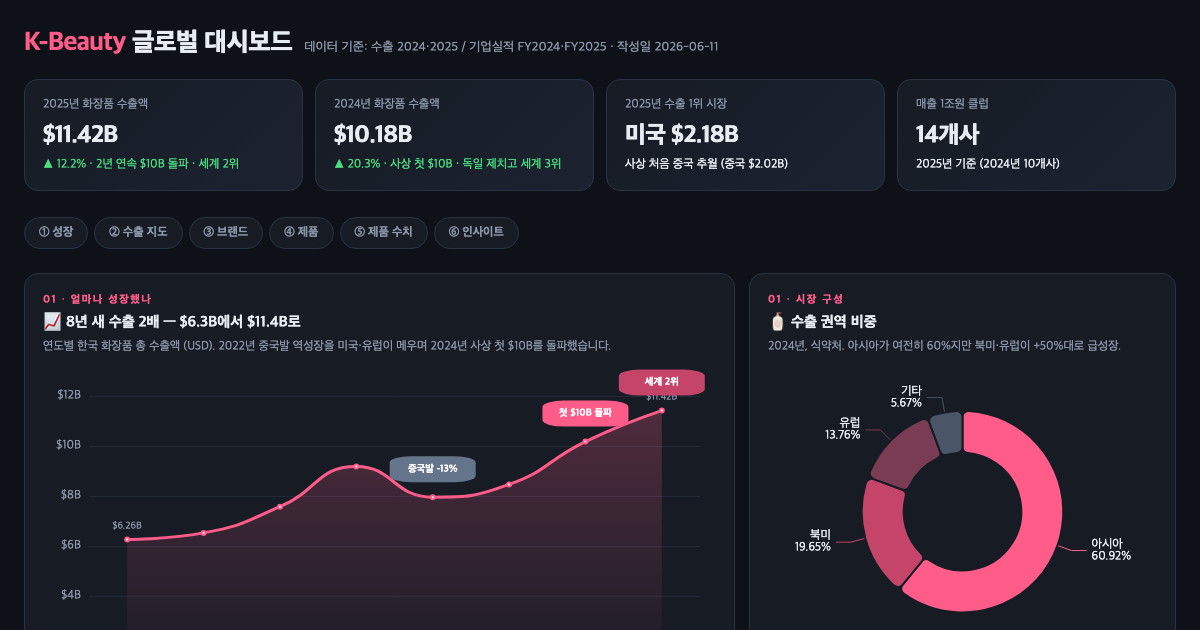
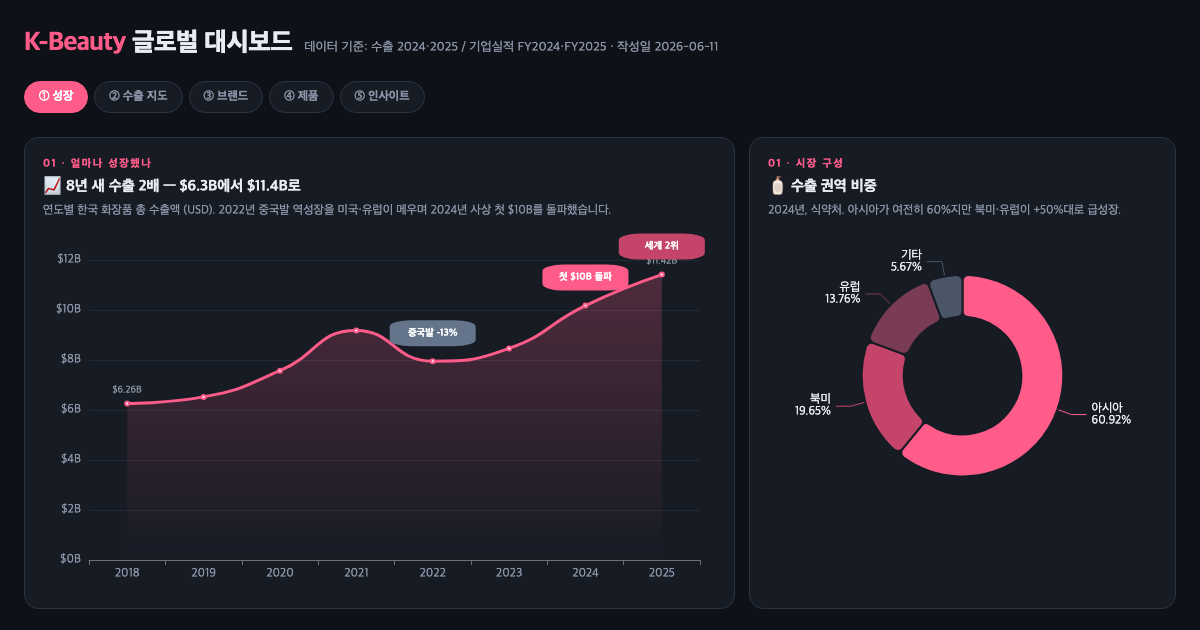
⑤ 제거 + ④를 플랫폼 실측 랭킹으로 재구성
문제: 누적 판매량은 브랜드별 발표 시점이 제각각, '종합 순위'는 편집
판단이라 정확성 한계 → 검증 불가능한 수치 비교를 제거하고 플랫폼이
직접 집계·공표하는 실측 랭킹으로 대체.

- ⑤ 제품별 판매·매출 차트 섹션 삭제 (관련 JS·URL 상태 포함)
- ④ 상단: 올리브영 글로벌 베스트셀러 TOP 20 (order-best API, 일일
  판매 기반, 평점·리뷰·가격 포함) + Qoo10 재팬 월간 공식 랭킹
  (eBay Japan PR Times, 판매개수 기준, 2026-04분 4개 카테고리)
- ④ 하단: '제품 도감 30' — 편집 순위 폐기, 기본 정렬 Amazon 리뷰순
  (공개 지표만 사용), 순번은 현재 정렬 기준 위치
- validate.js에 platformRanks 검증 추가, 섹션 ⑤→인사이트 재번호
- og.png 갱신, 캐시버스트 v=11

diff --git a/index.html b/index.html
@@ -326,8 +326,7 @@
     <a href="#sec-map">② 수출 지도</a>
     <a href="#sec-brands">③ 브랜드</a>
     <a href="#sec-products">④ 제품</a>
-    <a href="#sec-chart">⑤ 제품 수치</a>
-    <a href="#sec-insights">⑥ 인사이트</a>
+    <a href="#sec-insights">⑤ 인사이트</a>
   </nav>
 
   <div class="grid row-growth" id="sec-growth">
@@ -379,12 +378,25 @@
 
   <div class="card" id="sec-products">
     <div class="eyebrow">04 · 무엇이 팔리는가</div>
-    <h2>🧪 K-Beauty 제품 랭킹 TOP 30</h2>
-    <div class="desc">판매 실적·수상 이력 기반 종합 순위. 제품을 클릭하면 성분·효능·평점·출처 상세가 열립니다.</div>
+    <h2>🏆 플랫폼 실측 랭킹</h2>
+    <div class="desc">에디터 추정이 아닌, 플랫폼이 직접 집계·공표하는 판매 기반 랭킹입니다. 항목에 호버하면 집계 기준이 표시됩니다.</div>
+    <div class="grid" style="grid-template-columns:repeat(auto-fit,minmax(380px,1fr));gap:14px;margin-bottom:22px">
+      <div>
+        <h2 style="font-size:13.5px" data-tip="올리브영 글로벌몰 공식 베스트셀러 — '일일 판매 데이터 기반' 실측 랭킹.<br>스냅샷 시점 기준 · 기획세트(증정 포함) 단위 집계 · 평점/리뷰는 글로벌몰 자체 수치">🌿 올리브영 글로벌 베스트셀러 <span class="chip" id="oyDate"></span></h2>
+        <div class="toplist" style="max-height:430px" id="oyList"></div>
+      </div>
+      <div>
+        <h2 style="font-size:13.5px" data-tip="eBay Japan(Qoo10 운영사)이 PR Times에 공식 발표하는 월간 랭킹 — 실제 판매개수(販売個数) 기준 집계">🇯🇵 Qoo10 재팬 월간 공식 랭킹 <span class="chip" id="qooDate"></span></h2>
+        <div class="toplist" style="max-height:430px" id="qooList"></div>
+      </div>
+    </div>
+
+    <h2>🧪 제품 도감 30</h2>
+    <div class="desc">주요 제품의 성분·효능·가격·평점 데이터베이스. 정렬은 Amazon 리뷰 수 등 공개 지표만 사용하며, 제품을 클릭하면 상세가 열립니다.</div>
     <div class="explorer-bar">
       <input type="search" id="pSearch" placeholder="🔍 제품·브랜드·성분 검색">
       <span class="sortgrp ytoggle" id="pSort">
-        <button class="on" data-s="rank">종합 순위</button>
+        <button class="on" data-s="reviews">Amazon 리뷰순</button>
         <button data-s="rating">평점순</button>
         <button data-s="priceAsc">낮은 가격</button>
         <button data-s="priceDesc">높은 가격</button>
@@ -395,21 +407,8 @@
     <div class="plist" id="plist"></div>
   </div>
 
-  <div class="card" id="sec-chart">
-    <div class="eyebrow" style="text-align:center">05 · 공개 수치로 보는 제품</div>
-    <h2 style="text-align:center">🏅 제품별 판매·매출 순위
-      <span class="ytoggle" id="prodMetricToggle">
-        <button class="on" data-m="units">누적 판매량</button>
-        <button data-m="revenue">연 매출 (공개 제품)</button>
-      </span>
-    </h2>
-    <div class="desc" style="text-align:center">막대에 마우스를 올리면 <b>주요 매출 지역</b>과 <b>정보 출처</b>가 표시됩니다. 제품 단독 매출은 대부분 비공개라 공개된 지표 기준으로만 순위를 매겼습니다.</div>
-    <div id="productRank" style="max-width:980px;margin:0 auto;height:420px"></div>
-    <div class="desc" style="text-align:center;margin-top:6px" id="prodExcluded"></div>
-  </div>
-
   <div class="card" id="sec-insights">
-    <div class="eyebrow">06 · 지금 업계가 주목하는 것</div>
+    <div class="eyebrow">05 · 지금 업계가 주목하는 것</div>
     <h2>🔭 K-Beauty 인사이트 브리핑</h2>
     <div class="desc">브랜드사·진출 기업·투자자가 지금 가장 궁금해하는 이슈를 핵심 수치와 함께 정리했습니다.</div>
     <div class="igrid" id="insights"></div>
@@ -422,9 +421,9 @@
   <footer id="sources"></footer>
 </div>
 
-<script src="assets/echarts.min.js?v=10"></script>
-<script src="assets/world.js?v=10"></script>
-<script src="data/data.js?v=10"></script>
+<script src="assets/echarts.min.js?v=11"></script>
+<script src="assets/world.js?v=11"></script>
+<script src="data/data.js?v=11"></script>
 <script>
 const D = window.DASHBOARD_DATA;
 const fmtUSD = v => v >= 1000 ? `$${(v/1000).toFixed(2)}B` : `$${v.toLocaleString()}M`;
@@ -720,74 +719,38 @@ pieChart.setOption({
   }]
 });
 
-/* ---------- product ranking (중앙 차트) ---------- */
-const prodChart = echarts.init(document.getElementById('productRank'));
-function renderProductRank(metric) {
-  const has = p => metric === 'units' ? p.cumUnits != null : p.annualRevenueKRW != null;
-  const items = D.products.filter(has)
-    .sort((a, b) => metric === 'units' ? a.cumUnits - b.cumUnits : a.annualRevenueKRW - b.annualRevenueKRW);
-  const excluded = D.products.filter(p => p.cumUnits == null && p.annualRevenueKRW == null);
-  document.getElementById('prodExcluded').innerHTML =
-    `※ ${excluded.map(p => p.name).join(', ')} 은(는) 제품 단독 수치 미공개로 순위에서 제외 (아래 카드 참고)`;
-  if (!items.length) {
-    prodChart.clear();
-    document.getElementById('prodExcluded').innerHTML =
-      '데이터를 불러오지 못했습니다. 강력 새로고침(Cmd+Shift+R) 후 다시 확인해주세요.';
-    return;
-  }
-  document.getElementById('productRank').style.height = Math.max(300, items.length * 46 + 40) + 'px';
-  prodChart.resize();
-  prodChart.setOption({
-    backgroundColor: 'transparent',
-    grid: {left: 8, right: 96, top: 6, bottom: 6, containLabel: true},
-    tooltip: {
-      backgroundColor: '#1c2330', borderColor: '#2a3344', textStyle: {color: '#e8ecf3'},
-      enterable: true, confine: true,
-      formatter: p => {
-        const it = items[p.dataIndex];
-        const val = metric === 'units'
-          ? `누적 판매: <b>${it.cumUnits.toLocaleString()}만 ${it.unitsSuffix}</b>${it.unitsNote ? ` <span style="color:#8b95a7">(${it.unitsNote})</span>` : ''}`
-          : `연 매출: <b>${fmtKRW(it.annualRevenueKRW)}</b> <span style="color:#8b95a7">(${it.revenueYear}년)</span>`;
-        return `<b>${it.name}</b> <span style="color:#ff5c8a">${it.brand}</span><br/>${val}<br/>` +
-               `📍 주요 매출 지역: <b>${it.region}</b><br/>` +
-               `📰 출처: <a href="${it.sourceUrl}" target="_blank" style="color:#ffb3c6">${it.sourceName}</a>` +
-               `<br/><span style="color:#8b95a7;font-size:10px">${metric === 'units'
-                 ? '누적 판매량 = 공식 발표·보도 수치, 기준 시점은 괄호 표기 (시점 상이 주의)'
-                 : '연 매출 = 제품/라인 단독 공개 수치 — 비공개 제품은 차트에서 제외'}</span>`;
-      }
-    },
-    xAxis: {type: 'value', axisLabel: {color: '#8b95a7',
-      formatter: v => metric === 'units' ? `${v.toLocaleString()}만` : (v >= 10000 ? `${v/10000}조` : `${v.toLocaleString()}억`)},
-      splitLine: {lineStyle: {color: '#222a38'}}},
-    yAxis: {type: 'category', data: items.map(it => `${it.name.length > 22 ? it.name.slice(0, 22) + '…' : it.name}`),
-      axisLabel: {color: '#e8ecf3', fontSize: 12, fontWeight: 600}},
-    series: [{
-      type: 'bar', barWidth: '60%',
-      data: items.map((it, i) => ({
-        value: metric === 'units' ? it.cumUnits : it.annualRevenueKRW,
-        itemStyle: {color: i === items.length - 1 ? '#ffc2d1' : i >= items.length - 3 ? '#ff7fa5' : '#c44569', borderRadius: [0, 6, 6, 0]}
-      })),
-      label: {show: true, position: 'right', color: '#8b95a7', fontSize: 11,
-        formatter: p => {
-          const it = items[p.dataIndex];
-          return metric === 'units' ? `${it.cumUnits.toLocaleString()}만 ${it.unitsSuffix}` : `${fmtKRW(it.annualRevenueKRW)} (${it.revenueYear})`;
-        }}
-    }]
-  }, {notMerge: true});
+/* ---------- 플랫폼 실측 랭킹 ---------- */
+{
+  const PR = D.platformRanks;
+  const oy = PR.oliveYoungGlobal;
+  document.getElementById('oyDate').textContent = `${oy.snapshotDate} 스냅샷`;
+  document.getElementById('oyList').innerHTML = oy.items.map(it => `
+    <div class="item" data-tip="${(`<b>${it.brand}</b> ${it.name}<br>판매가 ${it.priceUSD} · 글로벌몰 평점 ${it.rating} (리뷰 ${it.reviews.toLocaleString()})<br>출처: 올리브영 글로벌 베스트셀러 (일일 판매 데이터 기반, ${oy.snapshotDate} 수집)`).replace(/"/g, '&quot;')}">
+      <div class="rank">${it.rank}</div>
+      <div class="nm" style="min-width:0;overflow:hidden;text-overflow:ellipsis;white-space:nowrap"><b style="color:var(--accent2)">${it.brand}</b> ${it.name}</div>
+      <div class="val" style="flex-shrink:0">${it.priceUSD}</div>
+      <div class="yoy" style="width:74px">★${it.rating.toFixed(1)} <span style="color:#8b95a7">(${it.reviews >= 1000 ? (it.reviews/1000).toFixed(1) + 'k' : it.reviews})</span></div>
+    </div>`).join('') +
+    `<div class="pcount">출처: <a href="${oy.sourceUrl}" target="_blank" style="color:#8b95a7">${oy.sourceName}</a> · 기획세트 단위 집계</div>`;
+
+  const q = PR.qoo10jp;
+  document.getElementById('qooDate').textContent = `${q.month} 월간`;
+  document.getElementById('qooList').innerHTML = q.categories.map(cat => `
+    <div class="pcount" style="margin:4px 2px 2px"><b style="color:var(--text)">${cat.category}</b></div>` +
+    cat.items.map(it => `
+    <div class="item" data-tip="${(`<b>${it.brand}</b> ${it.name}<br>${q.month} ${cat.category} ${it.rank}위 — ${q.basis}<br>출처: ${q.sourceName} (${q.releaseDate} 발표)`).replace(/"/g, '&quot;')}">
+      <div class="rank">${it.rank}</div>
+      <div class="nm" style="min-width:0;overflow:hidden;text-overflow:ellipsis;white-space:nowrap"><b style="color:var(--accent2)">${it.brand}</b> ${it.name}</div>
+    </div>`).join('')).join('') +
+    `<div class="pcount">출처: <a href="${q.sourceUrl}" target="_blank" style="color:#8b95a7">${q.sourceName}</a> · ${q.basis}</div>`;
 }
-renderProductRank('units');
-document.getElementById('prodMetricToggle').addEventListener('click', e => {
-  const b = e.target.closest('button'); if (!b) return;
-  document.querySelectorAll('#prodMetricToggle button').forEach(x => x.classList.toggle('on', x === b));
-  renderProductRank(b.dataset.m);
-});
 
 /* ---------- 제품 랭킹 익스플로러 ---------- */
 const CAT_ICONS = {
   '토너·패드': '💧', '에센스·세럼': '✨', '크림·로션': '🧴', '선케어': '☀',
   '쿠션·베이스': '🪞', '립': '💋', '마스크팩': '🎭', '디바이스': '⚡', '클렌징': '🫧',
 };
-const pState = { q: '', cat: '전체', sort: 'rank' };
+const pState = { q: '', cat: '전체', sort: 'reviews' };
 const ratingOf = p => Math.max(p.ratingAmazon ?? 0, p.ratingOliveYoung ?? 0, p.ratingHwahae ?? 0);
 const starsHtml = r => `<span class="stars">★★★★★<span class="fill" style="width:${r/5*100}%">★★★★★</span></span>`;
 const wonFmt = v => v == null ? '가격 미공개' : `₩${v.toLocaleString()}`;
@@ -801,7 +764,7 @@ function filteredProducts() {
       .filter(Boolean).join(' ').toLowerCase().includes(q);
   });
   const sorters = {
-    rank: (a, b) => a.rank - b.rank,
+    reviews: (a, b) => (b.reviewsAmazon ?? 0) - (a.reviewsAmazon ?? 0),
     rating: (a, b) => ratingOf(b) - ratingOf(a),
     priceAsc: (a, b) => (a.priceKRW ?? 1e12) - (b.priceKRW ?? 1e12),
     priceDesc: (a, b) => (b.priceKRW ?? -1) - (a.priceKRW ?? -1),
@@ -822,14 +785,14 @@ function renderList() {
   document.getElementById('plist').innerHTML = items.map((p, i) => {
     const r = ratingOf(p);
     const award = (p.awards ?? [])[0];
-    const tip = `<b>${p.name}</b><br>종합 순위 ${p.rank}위 = 판매 실적·수상 이력 기반 편집 순위 (단일 공식 지표 아님)` +
+    const tip = `<b>${p.name}</b><br>정렬 위치는 현재 선택된 공개 지표(리뷰 수·평점·가격) 기준` +
       `<br>판매 지표: ${p.salesMetric}` +
       (r ? `<br>평점 ${r.toFixed(1)} = Amazon/올리브영 리스팅·보도 기준 최대값 (리뷰 수는 보수적 하한)` : '') +
       (p.priceKRW ? `<br>가격: 정가 기준 (할인가 변동 큼)` : '') +
       `<br>출처: ${p.sourceName}`;
     return `
     <div class="prow" data-rank="${p.rank}" data-tip="${tip.replace(/"/g, '&quot;')}" style="animation-delay:${Math.min(i * 28, 500)}ms">
-      <div class="prank ${p.rank <= 3 ? 'r' + p.rank : ''}">${p.rank}</div>
+      <div class="prank ${i < 3 ? 'r' + (i + 1) : ''}">${i + 1}</div>
       <div class="pthumb">${CAT_ICONS[p.cat] ?? '🧴'}</div>
       <div class="pinfo">
         <div class="pb">${p.brand}</div>
@@ -952,13 +915,11 @@ function syncURL() {
   if (bf && bf !== 'all') sp.set('bf', bf);
   if (pState.cat !== '전체') sp.set('cat', pState.cat);
   if (pState.q) sp.set('q', pState.q);
-  if (pState.sort !== 'rank') sp.set('sort', pState.sort);
-  const pm = document.querySelector('#prodMetricToggle button.on')?.dataset.m;
-  if (pm && pm !== 'units') sp.set('m', pm);
+  if (pState.sort !== 'reviews') sp.set('sort', pState.sort);
   const qs = sp.toString();
   history.replaceState(null, '', (qs ? '?' + qs : location.pathname) + location.hash);
 }
-['yearToggle', 'brandFilter', 'pCats', 'pSort', 'prodMetricToggle'].forEach(id =>
+['yearToggle', 'brandFilter', 'pCats', 'pSort'].forEach(id =>
   document.getElementById(id).addEventListener('click', () => setTimeout(syncURL, 0)));
 document.getElementById('pSearch').addEventListener('input', () => syncURL());
 
@@ -975,15 +936,11 @@ document.getElementById('pSearch').addEventListener('input', () => syncURL());
   let dirty = false;
   if (sp.get('cat')) { pState.cat = sp.get('cat'); dirty = true; }
   if (sp.get('q')) { pState.q = sp.get('q'); document.getElementById('pSearch').value = pState.q; dirty = true; }
-  if (['rating', 'priceAsc', 'priceDesc'].includes(sp.get('sort'))) {
+  if (['reviews', 'rating', 'priceAsc', 'priceDesc'].includes(sp.get('sort'))) {
     pState.sort = sp.get('sort'); dirty = true;
     document.querySelectorAll('#pSort button').forEach(x => x.classList.toggle('on', x.dataset.s === pState.sort));
   }
   if (dirty) { renderCats(); renderList(); }
-  if (sp.get('m') === 'revenue') {
-    document.querySelectorAll('#prodMetricToggle button').forEach(x => x.classList.toggle('on', x.dataset.m === 'revenue'));
-    renderProductRank('revenue');
-  }
 })();
 
 /* ---------- scrollspy ---------- */
@@ -1002,7 +959,7 @@ if ('IntersectionObserver' in window) {
   document.querySelectorAll('.card').forEach(c => { c.classList.add('reveal'); io.observe(c); });
 }
 
-window.addEventListener('resize', () => [mapChart, trendChart, pieChart, prodChart].forEach(c => c.resize()));
+window.addEventListener('resize', () => [mapChart, trendChart, pieChart].forEach(c => c.resize()));
 </script>
 </body>
 </html>

diff --git a/data/data.js b/data/data.js
@@ -467,6 +467,76 @@ window.DASHBOARD_DATA = {
       sourceName: "코스인코리아·올리브영", sourceUrl: "https://cosinkorea.com/news/article.html?no=48755" },
   ],
 
+  /* 플랫폼 실측 랭킹 — 플랫폼이 직접 집계·공표하는 판매 기반 랭킹 (월간 스냅샷 루틴이 갱신)
+   * oliveYoungGlobal: global.oliveyoung.com 베스트셀러 (order-best API, 일일 판매 데이터 기반)
+   * qoo10jp: eBay Japan이 PR Times에 공식 발표하는 월간 판매개수 기준 랭킹 */
+  platformRanks: {
+    oliveYoungGlobal: {
+      snapshotDate: "2026-06-11",
+      sourceName: "올리브영 글로벌 베스트셀러",
+      sourceUrl: "https://global.oliveyoung.com/display/page/best-seller",
+      items: [
+      { rank: 1, brand: "MEDIHEAL", name: "Toner Pad 100+100 Pads Double Set (+Portable Case) (7 Options)", priceUSD: 23.17, rating: 5, reviews: 40 },
+      { rank: 2, brand: "MEDIHEAL", name: "Essential Mask Sheet 10ea Set (+1ea) (OY-Exclusive)", priceUSD: 10, rating: 4.8, reviews: 5056 },
+      { rank: 3, brand: "FOODOLOGY", name: "Coleology Cutting Jelly 30 Sticks (30-day supply)", priceUSD: 37.93, rating: 4.7, reviews: 1644 },
+      { rank: 4, brand: "Centellian24", name: "Madeca Cream Time Reverse 50ml Set (+15ml*2ea+Derma Mask Sheet 3ea)", priceUSD: 19.8, rating: 4.8, reviews: 256 },
+      { rank: 5, brand: "ROUND LAB", name: "Birch Juice Moisturizing Sunscreen 50ml Double Set (+20ml)", priceUSD: 23.52, rating: 4.9, reviews: 16 },
+      { rank: 6, brand: "Purito Seoul", name: "Daily Soft Touch Sunscreen 60ml Double Pack (+Cleanser 30ml)", priceUSD: 26.73, rating: 5, reviews: 3 },
+      { rank: 7, brand: "tooq", name: "Volume Glaze Syrup Tint (9 Colors)", priceUSD: 9.58, rating: 4.8, reviews: 376 },
+      { rank: 8, brand: "celimax", name: "Retinal Shot Tightening Booster 15ml Set (+3ml)", priceUSD: 24, rating: 4.7, reviews: 221 },
+      { rank: 9, brand: "ILLIYOON", name: "Ceramide Ato Lotion Double Pack (600ml+600ml)", priceUSD: 35.29, rating: 4.9, reviews: 188 },
+      { rank: 10, brand: "S.NATURE", name: "Aqua Squalane Moisturizing Cream 60ml Double Set (+Cream 10ml)", priceUSD: 22.4, rating: 4.8, reviews: 27 },
+      { rank: 11, brand: "Centellian24", name: "Expert Madeca Cream Active Renew PDRN Double Set", priceUSD: 48.98, rating: 4.9, reviews: 46 },
+      { rank: 12, brand: "Anua", name: "PDRN Hyaluronic Capsule 100 Serum 30ml Refill Set", priceUSD: 35.63, rating: 4.8, reviews: 2979 },
+      { rank: 13, brand: "numbuzin", name: "No. 9 NAD Bio Lifting-sil Essence 50ml", priceUSD: 24.65, rating: 4.9, reviews: 2068 },
+      { rank: 14, brand: "medicube", name: "★2025 Awards★ medicube PDRN Pink Peptide Ampoule 30ml Limited Set (+Refill 50ml+PDRN Pink One Day Serum 1.5ml*5P)", priceUSD: 23.71, rating: 4.8, reviews: 1001 },
+      { rank: 15, brand: "SKIN1004", name: "Madagascar Centella Hyalu-Cica Water-Fit Sun Serum 50mL*2ea (Twin pack)", priceUSD: 27.74, rating: 4.9, reviews: 9747 },
+      { rank: 16, brand: "Torriden", name: "[Upgraded] Torriden Dive In Low Molecular Hyaluronic Acid Serum 50ml", priceUSD: 15.75, rating: 5, reviews: 3 },
+      { rank: 17, brand: "UNOVE", name: "Deep Damage Repair Hair Mask (Treatment / Hair Pack) 320mL Double Pack (5 Options)", priceUSD: 32.88, rating: 4.8, reviews: 2923 },
+      { rank: 18, brand: "Anua", name: "PDRN Hyaluronic Acid 100 Moisturizing Cream 60ml Double Set (+PDRN Toner 40ml)", priceUSD: 43.83, rating: 4.5, reviews: 8 },
+      { rank: 19, brand: "Torriden", name: "[Upgraded] Torriden Dive-In Low Molecular Hyaluronic Acid Soothing Cream 100ml Double Set (Cream 20ml+Serum 20ml)", priceUSD: 28, rating: 4.8, reviews: 5 },
+      { rank: 20, brand: "Dr. Althea", name: "345 Relief Cream Mist Set (100ml+60ml)", priceUSD: 35, rating: 4.8, reviews: 35 },
+      ],
+    },
+    qoo10jp: {
+      month: "2026-04",
+      releaseDate: "2026-05-27",
+      basis: "판매개수(販売個数) 기준, 집계 2026-04-01~04-30",
+      sourceName: "eBay Japan 공식 보도자료 (PR Times)",
+      sourceUrl: "https://prtimes.jp/main/html/rd/p/000000947.000022933.html",
+      categories: [
+        { category: "선케어", items: [
+          { rank: 1, brand: "스킨1004", name: "히알루-시카 워터핏 선세럼" },
+          { rank: 2, brand: "오즈너리", name: "레스트 앤 더 선" },
+          { rank: 3, brand: "Funny Elves", name: "UV 소프트 매트 프레스드 파우더" },
+          { rank: 4, brand: "화시쯔 (Florasis)", name: "UV 페이스 파우더" },
+          { rank: 5, brand: "아누아", name: "선크림 2종" },
+        ]},
+        { category: "립 메이크업", items: [
+          { rank: 1, brand: "에이프릴스킨", name: "히어로 립 타투 틴트" },
+          { rank: 2, brand: "달바", name: "플럼핑 립 글로우 무드 볼류마이저" },
+          { rank: 3, brand: "롬앤", name: "쥬시 플래시 립 오일" },
+          { rank: 4, brand: "페리페라", name: "무드 글로이 틴트" },
+          { rank: 5, brand: "밀크터치", name: "젤리핏 틴티드 글로우 틴트" },
+        ]},
+        { category: "아이섀도", items: [
+          { rank: 1, brand: "릴리바이레드", name: "리틀비티 모먼트 섀도우" },
+          { rank: 2, brand: "홀리카홀리카", name: "마이페이브 피스 섀도우" },
+          { rank: 3, brand: "투에이엔 (2aN)", name: "베터미 아이팔레트" },
+          { rank: 4, brand: "웨이크메이크", name: "소프트 블러링 아이팔레트" },
+          { rank: 5, brand: "투쿨포스쿨", name: "프로타주 펜슬" },
+        ]},
+        { category: "치크", items: [
+          { rank: 1, brand: "라카", name: "선쉴드 글로이 치크" },
+          { rank: 2, brand: "투에이엔 (2aN)", name: "듀얼 치크" },
+          { rank: 3, brand: "AZTK", name: "젤리 컬러 치크 리퀴드" },
+          { rank: 4, brand: "얼터너티브 스테레오", name: "버미 크림 치크" },
+          { rank: 5, brand: "어바웃톤", name: "스킨 레이어 핏 치크" },
+        ]},
+      ],
+    },
+  },
+
   /* 인사이트 브리핑 — 업계가 주목하는 핵심 이슈 (2026.6 기준, 웹 리서치) */
   insights: [
     { tag: "🇺🇸 미국 관세", title: "15% 관세 + 직구 면세 폐지 — 가격·생산지 전략이 최우선 과제로",

diff --git a/scripts/validate.js b/scripts/validate.js
@@ -82,6 +82,26 @@ const ok = (m) => console.log('  ✓ ' + m);
   ok(`제품: ${D.products.length}개 (판매량 차트 ${D.products.filter(p => p.cumUnits != null).length}, 매출 차트 ${D.products.filter(p => p.annualRevenueKRW != null).length})`);
 }
 
+/* ---------- 플랫폼 실측 랭킹 ---------- */
+{
+  const PR = D.platformRanks;
+  if (!PR) errs.push('platformRanks 누락');
+  else {
+    const oy = PR.oliveYoungGlobal;
+    if (!oy?.snapshotDate || !oy?.sourceUrl || !(oy?.items?.length >= 10)) errs.push('올리브영 글로벌 랭킹 불완전');
+    for (const it of oy?.items ?? []) {
+      if (!it.rank || !it.brand || !it.name || it.priceUSD == null || it.rating == null) errs.push(`OY 항목 필드 누락: #${it.rank}`);
+      if (it.rating < 3 || it.rating > 5) errs.push(`OY 평점 범위 오류: #${it.rank}`);
+    }
+    const q = PR.qoo10jp;
+    if (!q?.month || !q?.sourceUrl || !q?.basis || !(q?.categories?.length >= 1)) errs.push('Qoo10 월간 랭킹 불완전');
+    for (const cat of q?.categories ?? [])
+      for (const it of cat.items ?? [])
+        if (!it.rank || !it.brand || !it.name) errs.push(`Qoo10 항목 필드 누락: ${cat.category} #${it.rank}`);
+    ok(`플랫폼 랭킹: 올리브영 ${oy?.items?.length ?? 0}개 (${oy?.snapshotDate}), Qoo10 ${q?.categories?.length ?? 0}개 카테고리 (${q?.month})`);
+  }
+}
+
 /* ---------- 인사이트 ---------- */
 {
   const I = D.insights;
